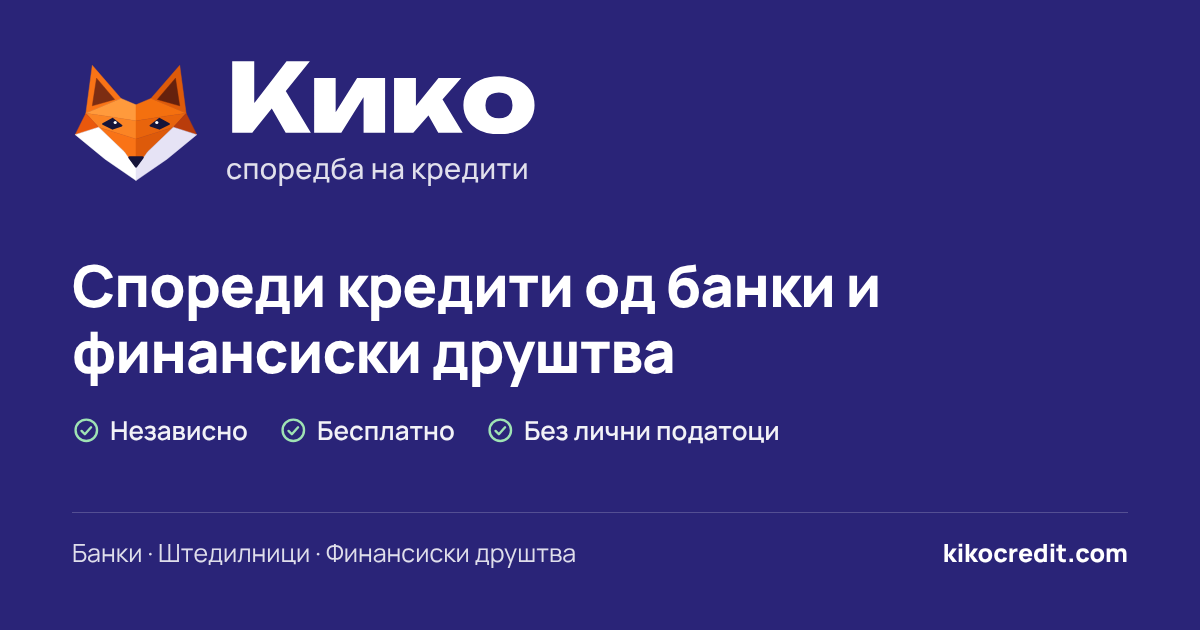
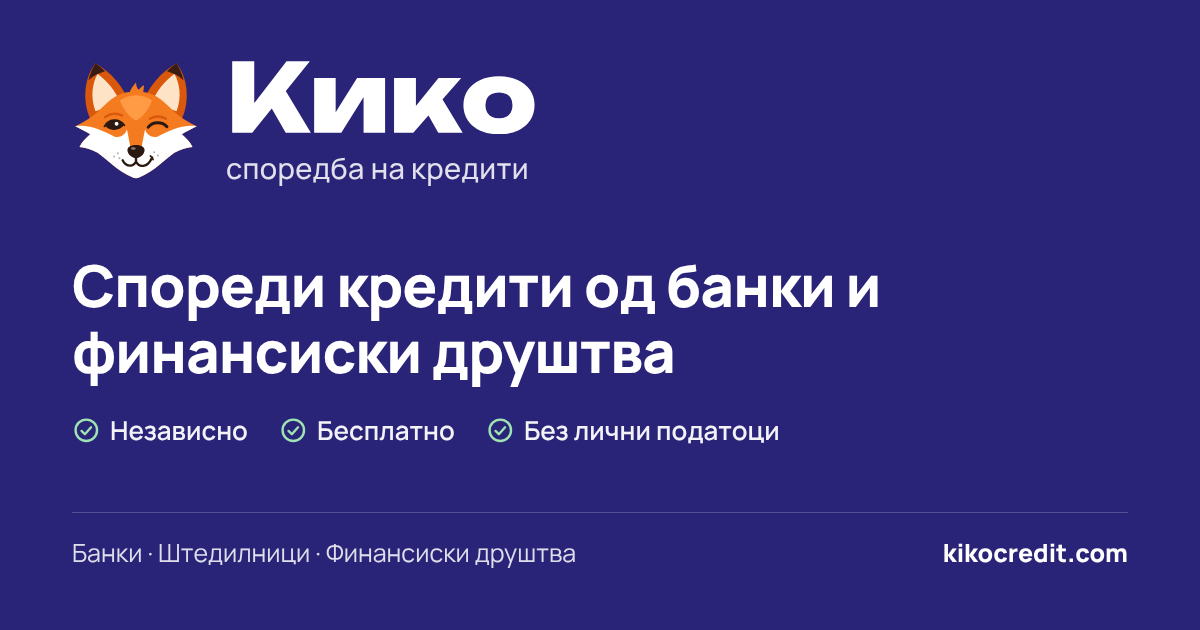
Лого: пријателска лисица што намигнува
Наместо фасетираната глава — лисица со вистински изглед (темни врвови на
ушите, бели образи и муцка) што намигнува и се смешка задоволно. Името „Кико“
останува исцртано како контура. Обновени се иконата и сликата за споделување.

Claude-Session: https://claude.ai/code/session_01BRyZofRM6J8YULqXWHTjp2

Changed region(s): [[0.0617, 0.0905, 0.185, 0.3016]]

diff --git a/src/brand.js b/src/brand.js
@@ -27,43 +27,45 @@ export const BRAND = {
 };
 
 // ── Лого ────────────────────────────────────────────────────────────────────
-// Лисицата на Кико — сопствен цртеж (не емоџи), ист на секој уред. Фасетирана глава,
-// симетрична околу x = 60 (viewBox 0 0 120 120): левата половина е осветлена, десната во
-// сенка — „две страни една до друга“, како две понуди што се споредуваат.
-// На темна позадина оди самата лисица (foxSvg); на светла — плочката (faviconSvg).
-const FOX_P = {
-  T: [19, 5], Ei: [46, 36], Tc: [60, 42], Eo: [13, 50], Ck: [3, 70], Jw: [31, 93],
-  H: [25, 63], Cn: [60, 74], Sn: [49, 86], Nl: [52.500, 91], Nb: [60, 101], Ch: [60, 113],
-  Bo: [28, 52], Bc: [60, 57],
-};
-const FOX_LIGHT = { earOut: '#F97316', earIn: '#7C2D12', crown: '#FF9A3C', forehead: '#FB8424', side: '#EA580C', snout: '#F97316', cheek: '#FFFFFF' };
-const FOX_SHADE = { earOut: '#DD5A0A', earIn: '#65210D', crown: '#F4700F', forehead: '#E8640C', side: '#B93C0B', snout: '#DD5A0A', cheek: '#E6E3F5' };
-const FOX_INK = '#16153A';
-const foxPts = (arr, mirror) => arr.map(([x, y]) => `${mirror ? 120 - x : x},${y}`).join(' ');
-const foxFacets = (c, m) => {
-  const P = FOX_P;
-  return [
-    [c.earOut, [P.T, P.Ei, P.Eo]],
-    [c.earIn, [[23, 17], [40, 37], [19, 43]]],
-    [c.crown, [P.Eo, P.Ei, P.Tc, P.Bc, P.Bo]],
-    [c.forehead, [P.Eo, P.Bo, P.Bc, P.Cn, P.H]],
-    [c.side, [P.Eo, P.H, P.Ck]],
-    [c.snout, [P.H, P.Cn, [60, 91], P.Nl, P.Sn]],
-    [c.cheek, [P.Ck, P.H, P.Sn, P.Nl, P.Nb, P.Ch, P.Jw]],
-  ].map(([fill, a]) => `<polygon fill="${fill}" stroke="${fill}" stroke-width=".4" stroke-linejoin="round" points="${foxPts(a, m)}"/>`).join('');
-};
-const foxEye = (m) => `<polygon fill="${FOX_INK}" stroke="${FOX_INK}" stroke-width="1.600" stroke-linejoin="round" points="${foxPts([[29, 60], [38, 55], [46.500, 61.500], [38, 64.500]], m)}"/>`
-  + `<circle fill="#fff" cx="${m ? 79.500 : 40.500}" cy="58.600" r="1.500"/>`;
-const FOX_INNER = foxFacets(FOX_LIGHT, false) + foxFacets(FOX_SHADE, true)
-  + `<path fill="${FOX_INK}" stroke="${FOX_INK}" stroke-width="2.400" stroke-linejoin="round" d="M54 91.500h12L60 99.500z"/>`
-  + foxEye(false) + foxEye(true);
+// Лисицата на Кико — сопствен цртеж (не емоџи), ист на секој уред: пријателска лисица со
+// вистински изглед (темни врвови на ушите, бели образи и муцка) што намигнува и се смешка
+// задоволно — како некој што споредил пред да потпише и поминал попаметно.
+// viewBox 0 0 120 120. На темна позадина оди самата лисица (foxSvg); на светла — плочката (faviconSvg).
+const FOX = { fur: '#F47B20', furDark: '#D9580B', furLight: '#FF9A45', ear: '#3A1D12', inner: '#FFE3C7', white: '#FFFFFF', ink: '#2B1810' };
+const FOX_EAR = `<path fill="${FOX.furDark}" d="M17 55C9 37 12 16 22 3c14 8 26 21 32 38z"/>`
+  + `<path fill="${FOX.inner}" d="M22 48c-5-13-3-26 2-35 9 7 17 16 21 27z"/>`
+  + `<path fill="${FOX.ear}" d="M22 3c-3 5-5.500 10.500-6.500 16C20 14.500 26 12 31 10.500 28 7.500 25 5 22 3z"/>`;
+const foxMirror = (s) => `<g transform="translate(120 0) scale(-1 1)">${s}</g>`;
+const FOX_INNER = FOX_EAR + foxMirror(FOX_EAR)
+  // прамен на темето
+  + `<path fill="${FOX.fur}" d="M53.500 32c1.500-5 3.800-8 6.500-11 .200 3.500 1 5.500 2.800 7 1.200-2 2.700-3.300 4.700-4.300-.300 3-.500 5.800-1 8.300z"/>`
+  // глава: широки образи со по два прамена, па тесна муцка
+  + `<path fill="${FOX.fur}" d="M60 30c-10-1-20 3-29 12C24 49 15 57 3 62c6 3 10 5 14 7.500-4 3.500-8 7.500-10 12 6 .500 12 2.500 17 5.500 9 6 18.500 17.500 33.500 23.300 1.500.600 3.500.600 5 0C77.500 104.500 87 93 96 87c5-3 11-5 17-5.500-2-4.500-6-8.500-10-12 4-2.500 8-4.500 14-7.500-12-5-21-13-28-20-9-9-19-13-29-12z"/>`
+  // посветло чело
+  + `<path fill="${FOX.furLight}" d="M60 33c-6 0-11 2-15 5 3 8 8 15 15 19 7-4 12-11 15-19-4-3-9-5-15-5z"/>`
+  // бела маска: образи и муцка
+  + `<path fill="${FOX.white}" d="M3 62c13-2 26 4 37 10 6 1 10-2 11.500-7C53 72 54 79 55.500 85h9c1.500-6 2.500-13 4-20 1.500 5 5.500 8 11.500 7 11-6 24-12 37-10-6 3-10 5-14 7.500 4 3.500 8 7.500 10 12-6 .500-12 2.500-17 5.500-9 6-18.500 17.500-33.500 23.300-1.500.600-3.500.600-5 0C42.500 104.500 33 93 24 87c-5-3-11-5-17-5.500 2-4.500 6-8.500 10-12-4-2.500-8-4.500-14-7.500z"/>`
+  // нос
+  + `<path fill="${FOX.ink}" d="M52 84.500c0-3.200 3.800-4.700 8-4.700s8 1.500 8 4.700c0 4-4.600 7.500-8 7.500s-8-3.500-8-7.500z"/><ellipse cx="57.500" cy="83" rx="2.200" ry="1.100" fill="#fff" opacity=".45"/>`
+  // насмевка (задоволна, малку накриво)
+  + `<path fill="none" stroke="${FOX.ink}" stroke-width="2.200" stroke-linecap="round" stroke-linejoin="round" d="M60 92v3.200M47.500 94c2.800 6 9.800 7 12.500 1.200 2.800 6 10.800 5.500 14.500-2.700"/>`
+  + `<path fill="none" stroke="${FOX.ink}" stroke-width="1.600" stroke-linecap="round" d="M73.500 90c1.500.800 2.300 2 2.500 3.500"/>`
+  // лево око — отворено
+  + `<path fill="${FOX.ink}" d="M31.500 62c3.500-6 12.500-7 17-.500-4 5-12.500 5.500-17 .500z"/><circle cx="41.800" cy="59.800" r="1.800" fill="#fff"/>`
+  + `<path fill="none" stroke="${FOX.ink}" stroke-width="1.800" stroke-linecap="round" d="M30.500 62.200c3.800-7 13.500-8 18.500-1"/>`
+  // десно око — намигнува
+  + `<path fill="none" stroke="${FOX.ink}" stroke-width="2.800" stroke-linecap="round" d="M71.500 63c4-5.500 13-5.500 17.500-.500"/>`
+  // веѓи
+  + `<path fill="none" stroke="${FOX.furDark}" stroke-width="2.200" stroke-linecap="round" d="M31 53.500c4.500-3.500 11-4 16-1.500M73 55c4.500-2.500 10.500-2.500 15 0"/>`
+  // точки за мустаќи
+  + [[43, 87.500], [39.500, 90.500], [44.500, 92], [77, 86.500], [80.500, 89.500], [75.500, 91]].map(([x, y]) => `<circle cx="${x}" cy="${y}" r="1" fill="${FOX.ink}" opacity=".32"/>`).join('');
 
 export const foxSvg = (size = 40, title = '') => `<svg xmlns="http://www.w3.org/2000/svg" viewBox="0 0 120 120" width="${size}" height="${size}" role="img"${title ? ` aria-label="${title}"` : ' aria-hidden="true"'}>${FOX_INNER}</svg>`;
 
 // Плочка: лисицата на заоблен индиго квадрат — икона за прелистувач/телефон и лого на светла позадина.
 export const faviconSvg = (size) => `<svg xmlns="http://www.w3.org/2000/svg" viewBox="0 0 120 120"${size ? ` width="${size}" height="${size}"` : ''}>`
   + '<defs><linearGradient id="kiko-bg" x1="0" y1="0" x2="1" y2="1"><stop offset="0" stop-color="#4A40C8"/><stop offset="1" stop-color="#1F1A5C"/></linearGradient></defs>'
-  + `<rect width="120" height="120" rx="27" fill="url(#kiko-bg)"/><g transform="translate(18 19) scale(.7)">${FOX_INNER}</g></svg>`;
+  + `<rect width="120" height="120" rx="27" fill="url(#kiko-bg)"/><g transform="translate(16.500 17) scale(.725)">${FOX_INNER}</g></svg>`;
 
 // Името „Кико“ како контури (Unbounded ExtraBold, SIL Open Font License) — исто на секој уред,
 // без вчитување фонт. Истиот фонт го користат и сликите за социјалните мрежи.
